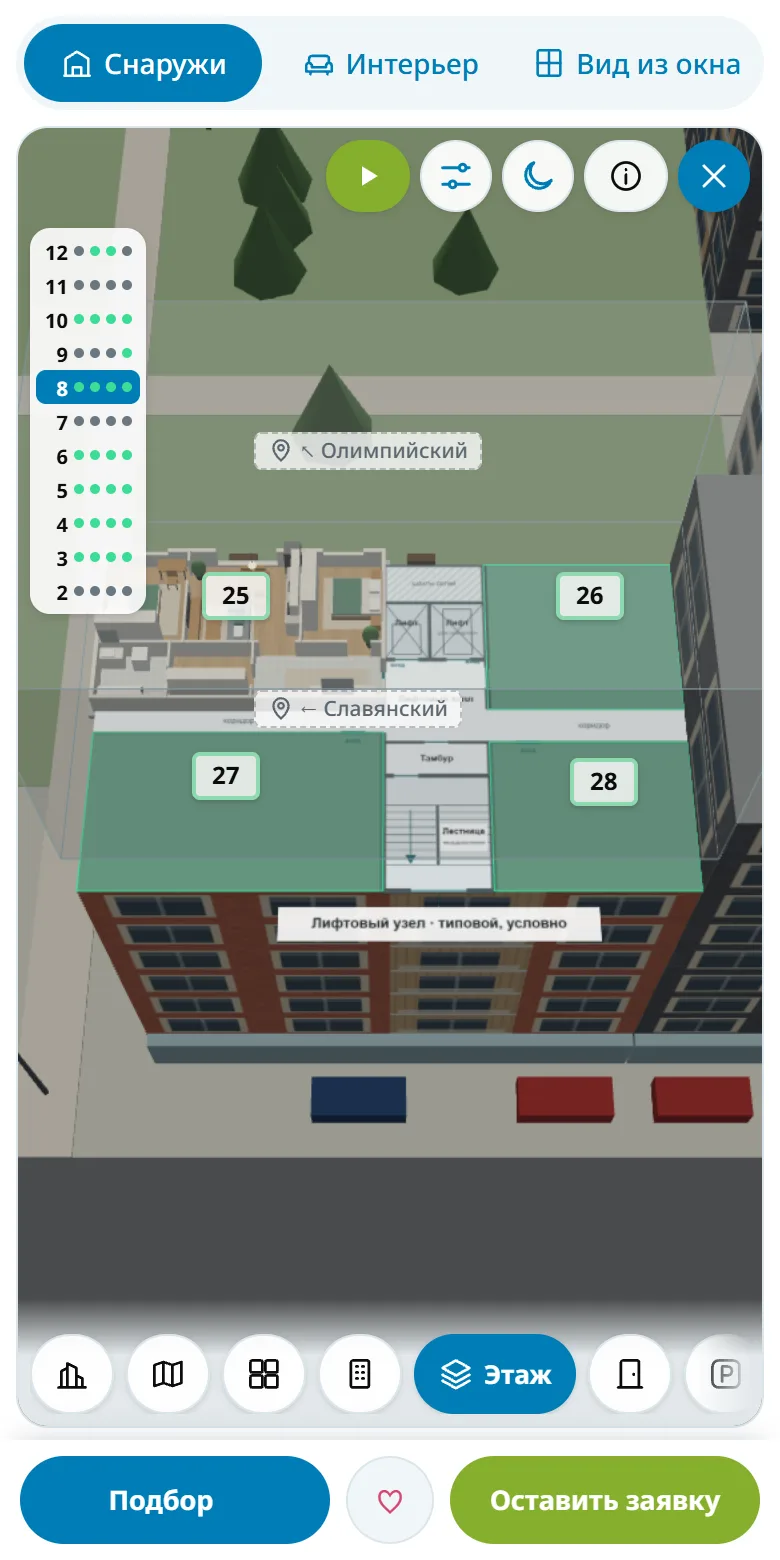
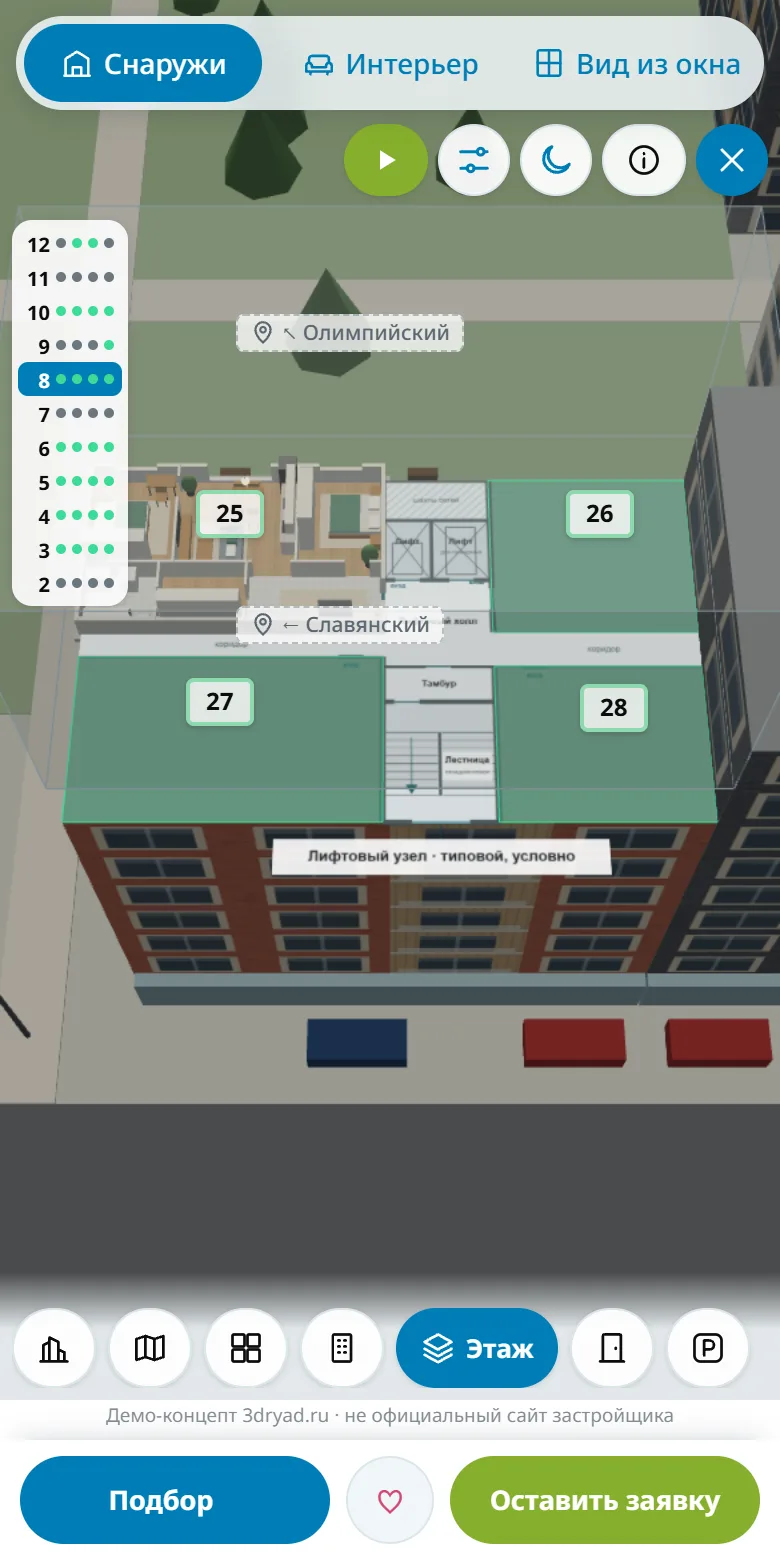
Демо сразу на весь экран: 3D без рамок, вкладки поверх сцены, в КП и в экскурсии тоже

diff --git a/demo/index.html b/demo/index.html
@@ -512,6 +512,26 @@ body.full .mbar{display:flex;z-index:45}
   body.full .backbtn{top:52px}
   body.full .badge{display:none}
 }
+/* full screen edge to edge: the 3D fills the whole window, the mode tabs float over it; --tt moves the top tools below the tabs */
+body.full .pin{padding:0;gap:0;height:auto;top:0;grid-column:auto;grid-row:auto}
+body.full .stage{border:0;border-radius:0;--tt:58px}
+body.full .tabs{position:absolute;z-index:8;top:max(8px,env(safe-area-inset-top,0px));left:50%;transform:translateX(-50%);width:min(560px,calc(100% - 16px));background:color-mix(in srgb,var(--chip) 86%,transparent);-webkit-backdrop-filter:blur(8px);backdrop-filter:blur(8px);box-shadow:0 2px 12px rgba(10,30,45,.18)}
+body.full .stage .tbar,body.full .where,body.full .backbtn{top:calc(max(8px,env(safe-area-inset-top,0px)) + var(--tt))}
+body.full .stack{top:calc(110px + var(--tt))}
+body.full .vpanel{top:calc(56px + var(--tt))}
+body.full .fullnote{display:block;position:absolute;z-index:7;right:12px;bottom:max(3px,env(safe-area-inset-bottom,0px));margin:0;padding:0;font-size:10px;line-height:1.2;color:var(--mut);opacity:.75;pointer-events:none;background:none}
+@media (min-width:1280px){   /* wide screen: the tabs fit between the city map (left) and the tools (right) on one line */
+  body.full .stage{--tt:0px}
+  body.full .tabs{width:min(520px,calc(100% - 760px))}
+}
+@media (max-width:640px){
+  body.full .pin{padding:0 0 calc(80px + env(safe-area-inset-bottom,0px))}
+  body.full .stage{--tt:56px}
+  body.full .stack{top:calc(54px + var(--tt))}
+  body.full .backbtn{top:calc(52px + var(--tt))}
+  body.full .stage .tbar{top:calc(max(6px,env(safe-area-inset-top,0px)) + var(--tt))}
+  body.full .fullnote{bottom:calc(67px + env(safe-area-inset-bottom,0px));left:0;right:0;text-align:center;font-size:9.5px}
+}
 /* rows of chips wider than the screen fade out at the side they continue to */
 .chips.more-r{-webkit-mask-image:linear-gradient(to right,#000 calc(100% - 28px),transparent);mask-image:linear-gradient(to right,#000 calc(100% - 28px),transparent)}
 .chips.more-l{-webkit-mask-image:linear-gradient(to left,#000 calc(100% - 28px),transparent);mask-image:linear-gradient(to left,#000 calc(100% - 28px),transparent)}
@@ -3102,7 +3122,8 @@ body.full .mbar{display:flex;z-index:45}
   // without a link the demo opens on our apartment A in 3D: it is the only one drawn inside (the others say «в разработке»)
   if (Q.get('mode') === 'ext') { enterExt(true); refresh(true); }
   else { S.sec = towerSec.i; S.apt = 'a'; if (!(qF >= 2 && qF <= 12)) S.floor = 8; placeOutside(); if (Q.get('mode') === 'win') enterWindow(); else enterInterior(true); refresh(true); }
-  if (window.top === window && !Q.has('classic') && !Q.get('tour')) requestAnimationFrame(() => requestAnimationFrame(() => setFull(true)));
+  // the 3D opens on the whole screen at once (also inside the proposal page and for the tour); ?classic=1 — the page with panels
+  if (!Q.has('classic')) setFull(true);
   if (Q.get('tour')) setTimeout(tourStart, 700);   // ?tour=1 — opens straight into the guided tour (sales office screen, the proposal page)
   requestAnimationFrame(frame);
   window.__nv = { S: S, walk: walk, startWalk: startWalk, enterWindow: enterWindow, enterInterior: enterInterior, refresh: refresh, camera: camera, describe: describe, data: DATA_OK ? 'json' : 'generated' };
